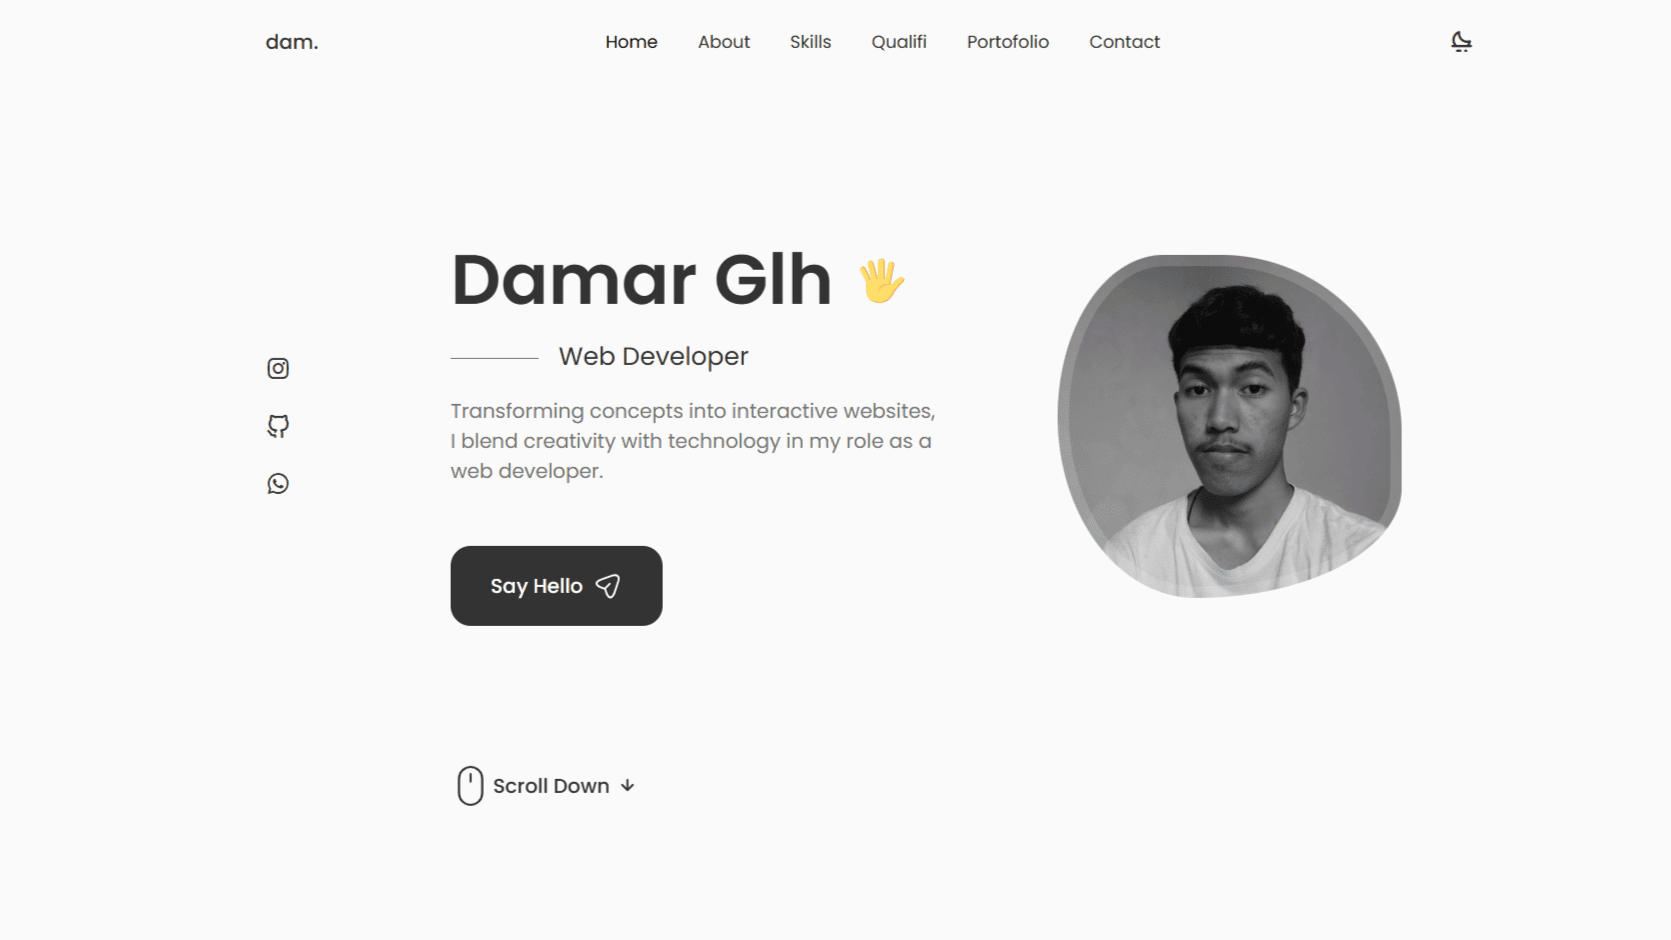
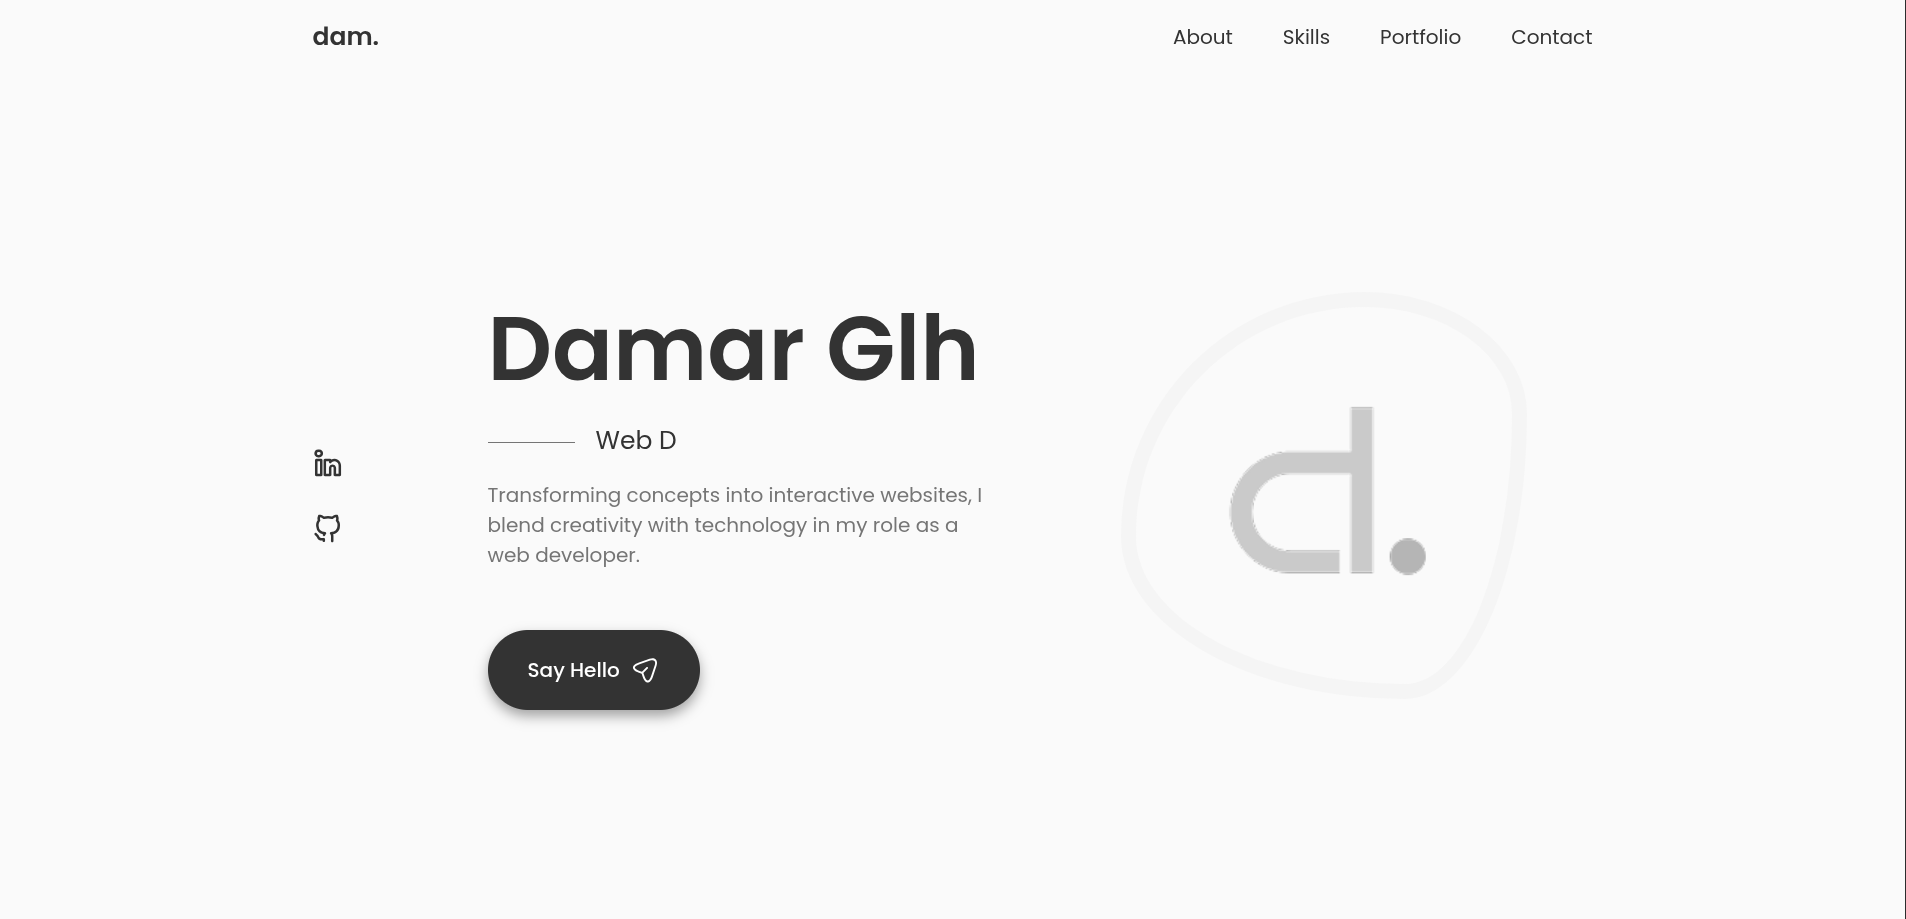
Ref: code structure for improved readability and maintainability; remove redundant code blocks;

diff --git a/src/components/work/Data.jsx b/src/components/work/Data.jsx
@@ -7,6 +7,7 @@ import Work5 from "../../assets/img/me.png";
 import Work6 from "../../assets/img/APP_Park_Ease.png";
 import Work7 from "../../assets/img/FE-Booking.png";
 import Work8 from "../../assets/img/trashcan-iot.png";
+import Work9 from "../../assets/img/Company Profile.jpg";
 import js from '../../assets/svg/js.svg';
 import php from '../../assets/svg/php.svg';
 import csharp from '../../assets/svg/csharp.svg';
@@ -23,6 +24,7 @@ import python from '../../assets/svg/python.svg';
 import flask from '../../assets/svg/flask.svg';
 import typescript from '../../assets/svg/typescript.svg';
 import mysql from '../../assets/svg/mysql.svg';
+import wordpress from '../../assets/svg/wordpress.svg';
 import starsnull from '../../assets/svg/stars-null.svg';
 import starshalf from '../../assets/svg/stars-half.svg';
 import starsfull from '../../assets/svg/stars-full.svg';
@@ -30,6 +32,17 @@ import starsfull from '../../assets/svg/stars-full.svg';
 export const projectsData = [
   {
     id: 0,
+    image: Work9,
+    title: "Company Profile Website",
+    category: "web",
+    link : "https://darinari.co.id",
+    goals: "This company profile website was created to showcase the services and products offered by PT Darinari Sinergi Bersama. It aims to provide potential clients with an overview of the company's capabilities and expertise.",
+    tech : [wordpress, php, mysql],
+    author : ["Damar Galih"],
+    ratings : [starsfull, starsfull, starsfull, starsfull, starsnull],
+  },
+  {
+    id: 1,
     image: Work0,
     title: "Recycling Platform",
     category: "web",
@@ -37,10 +50,10 @@ export const projectsData = [
     goals: "This project is a platform that connects people who want to recycle with recycling centers. The goal is to make it easier for people to recycle and reduce waste in the environment.",
     tech : [python, flask, tailwindcss],
     author : ["Damar Galih"],
-    ratings : [starsfull, starsfull, starsfull, starsnull, starsnull],
+    ratings : [starsfull, starsfull, starsfull, starsfull, starsnull],
   },
   {
-    id: 1,
+    id: 2,
     image: Work1,
     title: "Pokus Extension",
     category: "other",
@@ -48,10 +61,10 @@ export const projectsData = [
     goals: "Pokus is a browser extension that helps users manage their time more effectively. It provides features such as task management, time tracking, and reminders to help users stay focused and productive.",
     tech : [js, typescript, tailwindcss],
     author : ["Muhamad Rizal Arfiyan","Damar Galih", "Gilang Nur Hidayat"],
-    ratings : [starsfull, starsfull, starsfull, starsnull, starsnull],
+    ratings : [starsfull, starsfull, starsfull, starsfull, starsnull],
   },
   {
-    id: 2,
+    id: 3,
     image: Work2,
     title: "Greenlify Website",
     category: "web",
@@ -62,7 +75,7 @@ export const projectsData = [
     ratings : [starsfull, starsfull, starsfull, starsnull, starsnull],
   },
   {
-    id: 3,
+    id: 4,
     image: Work3,
     title: "Landing Page Website",
     category: "web",
@@ -73,7 +86,7 @@ export const projectsData = [
     ratings : [starsfull, starsfull, starsfull, starsnull, starsnull],
   },
   {
-    id: 4,
+    id: 5,
     image: Work4,
     title: "UI & UX Trash Collector",
     category: "design",
@@ -84,7 +97,7 @@ export const projectsData = [
     ratings : [starsfull, starsfull, starsfull, starsfull, starsfull],
   },
   {
-    id: 5,
+    id: 6,
     image: Work5,
     title: "Portofolio Website",
     category: "web",
@@ -96,7 +109,7 @@ export const projectsData = [
   },
 
   {
-    id: 6,
+    id: 7,
     image: Work6,
     title: "Park Ease Application",
     category: "app",
@@ -107,7 +120,7 @@ export const projectsData = [
     ratings : [starsfull, starsfull, starsfull, starsfull, starsfull],
   },
   {
-    id: 7,
+    id: 8,
     image: Work7,
     title: "Booking Website",
     category: "web",
@@ -118,7 +131,7 @@ export const projectsData = [
     ratings : [starsfull, starsfull, starsfull, starsfull, starsfull],
   },
   {
-    id: 8,
+    id: 9,
     image: Work8,
     title: "TrashCan IoT",
     category: "IoT",

diff --git a/src/components/contact/Contact.jsx b/src/components/contact/Contact.jsx
@@ -24,17 +24,29 @@ const Contact = ({isDarkMode}) => {
                     <span className="contact__card-data">dgdarma6@gmail.com</span>
                     <a href="https://mail.google.com/mail/u/2/#inbox?compose=new" className="contact__button">Write me <i className="bx bx-right-arrow-alt contact__button-icon"></i></a>
                   </div>
-                  <div className="contact__card"data-aos="zoom-in" data-aos-delay="2250">
+                  {/* <div className="contact__card"data-aos="zoom-in" data-aos-delay="2250">
                     <i className="bx bxl-whatsapp contact__card-icon"></i>
                     <h3 className="contact__card-title">Whatsapp</h3>
                     <span className="contact__card-data">+62822-2322-3166</span>
                     <a href="https://wa.me/qr/Q3ZAX5TFAH3HI1" className="contact__button">Write me <i className="bx bx-right-arrow-alt contact__button-icon"></i></a>
-                  </div>
-                  <div className="contact__card" data-aos="zoom-in" data-aos-delay="1500">
+                  </div> */}
+                  {/* <div className="contact__card" data-aos="zoom-in" data-aos-delay="1500">
                     <i className="bx bxl-messenger contact__card-icon"></i>
                     <h3 className="contact__card-title">Massage</h3>
                     <span className="contact__card-data">Muhamad damar</span>
                     <a href="https://m.facebook.com/damar.galih.737001?eav=Afa9DNwI3eeZdM4SEa1m0T6kViMZzc6Ev-QMEYKxKS399U--jRaVJbhvp0rNzTTBRe8&paipv=" className="contact__button">Write me <i className="bx bx-right-arrow-alt contact__button-icon"></i></a>
+                  </div> */}
+                  <div className="contact__card" data-aos="zoom-in" data-aos-delay="1500">
+                    <i className="bx bxl-linkedin contact__card-icon"></i>
+                    <h3 className="contact__card-title">Linkedin</h3>
+                    <span className="contact__card-data">Damar Galih</span>
+                    <a href="https://www.linkedin.com/in/damar-galih-7b5a1124b/" className="contact__button">Write me <i className="bx bx-right-arrow-alt contact__button-icon"></i></a>
+                  </div>
+                  <div className="contact__card" data-aos="zoom-in" data-aos-delay="1500">
+                    <i className="bx bxl-github contact__card-icon"></i>
+                    <h3 className="contact__card-title">Github</h3>
+                    <span className="contact__card-data">Damar Galih</span>
+                    <a href="https://github.com/damar-glh" className="contact__button">Write me <i className="bx bx-right-arrow-alt contact__button-icon"></i></a>
                   </div>
                 </div>
             </div>

diff --git a/src/components/footer/Footer.jsx b/src/components/footer/Footer.jsx
@@ -8,28 +8,31 @@ const Footer = ({isDarkMode}) => {
             <h1 className="footer__title">dam.</h1>
             <ul className="footer__list">
                 <li>
-                    <a href="#about" className="footer__link">About</a>
+                    <a href="/about" className="footer__link">About</a>
                 </li>
                 <li>
-                    <a href="#portofolio" className="footer__link">Project</a>
+                    <a href="/portfolio" className="footer__link">Portfolio</a>
                 </li>
                 <li>
-                    <a href="#testimonials" className="footer__link">Testimonial</a>
+                    <a href="/contact" className="footer__link">Contact</a>
                 </li>
             </ul>
             <div className="footer__social">
-            <a href="https://www.youtube.com/channel/UCzvicrZgebz5faHpineRWlg" className="footer__social-link" target="_blank" rel="noreferrer">
+            {/* <a href="https://www.youtube.com/channel/UCzvicrZgebz5faHpineRWlg" className="footer__social-link" target="_blank" rel="noreferrer">
             <i className="bx bxl-youtube"></i>
-            </a>
-            <a href="https://www.instagram.com/invites/contact/?i=1qn7f0ctoxn2r&utm_content=4rioy6h" className="footer__social-link" target="_blank" rel="noreferrer">
+            </a> */}
+            {/* <a href="https://www.instagram.com/invites/contact/?i=1qn7f0ctoxn2r&utm_content=4rioy6h" className="footer__social-link" target="_blank" rel="noreferrer">
             <i className="bx bxl-instagram"></i>
-            </a>
+            </a> */}
             <a href="https://github.com/damar-glh" className="footer__social-link" target="_blank" rel="noreferrer">
             <i className="bx bxl-github"></i>
             </a>
-            <a href="https://wa.me/qr/Q3ZAX5TFAH3HI1" className="footer__social-link" target="_blank" rel="noreferrer">
+            {/* <a href="https://wa.me/qr/Q3ZAX5TFAH3HI1" className="footer__social-link" target="_blank" rel="noreferrer">
             <i className="bx bxl-whatsapp"></i>
-            </a>
+            </a> */}
+            <a href="https://www.linkedin.com/in/damar-galih-7b5a1124b/" className="footer__social-link" target="_blank" rel="noreferrer">
+            <i className="bx bxl-linkedin"></i>
+        </a>
             </div>
             <span className="footer__copy">&#169; Created by damar.glh__</span>
         </div>

diff --git a/src/components/about/About.jsx b/src/components/about/About.jsx
@@ -1,11 +1,11 @@
 import React, {useState, useEffect} from 'react'
 import "./about.css";
-import AboutImg from "../../assets/img/damar-galih.jpg";
+import AboutImg from "../../assets/img/logo home.png";
 import Info from './Info';
 
 const About = ({isDarkMode}) => {
   const [animatedText, setAnimatedText] = useState('');
-  const text = "I am a human who is interested in the world of technology, especially in the field of development and creation, with professional experience in designing and developing websites using various front-end and back-end technologies such as HTML, CSS, JavaScript, as well as frameworks such as Bootstrap, Tailwind CSS , and React, while at the same time expanding knowledge in the field of back-end development and creating interesting work by combining technological expertise and a philosophical understanding of identity and the meaning of life.";
+  const text = "Web Developer with 1-2 years of professional experience in web development. Successfully completed 10+ projects, ranging from landing pages to dynamic web applications. Proficient in modern technologies such as HTML, CSS, JavaScript, and frameworks like React, Bootstrap, and Tailwind CSS. Currently actively developing programming skills and ready to collaborate on development teams to create digital solutions.";
 
   useEffect(() => {
     let interval;

diff --git a/src/components/skills/Framework.jsx b/src/components/skills/Framework.jsx
@@ -3,14 +3,20 @@ import git from '../../assets/svg/git.svg';
 import tailwindcss from '../../assets/svg/tailwindcss.svg';
 import reactjs from '../../assets/svg/reactjs.svg';
 import linux from '../../assets/svg/linux.svg';
+import elementor from '../../assets/svg/elementor.svg';
+import rankmath from '../../assets/svg/rankmath.svg';
+import yoseo from '../../assets/svg/yoseo.svg';
 import SkillsContainer from "./SkillsContainer";
 
 const frameworkSkills = [
+    {name: 'Elementor', icon: elementor},
+    {name: 'Rank Math', icon: rankmath},
+    {name: 'Yoast SEO', icon: yoseo},
     {name: 'Bootstrap', icon: bootstrap},
     {name: 'TailwindCss', icon: tailwindcss},
     {name: 'React', icon: reactjs},
     {name: 'Git', icon: git},
-    {name: 'Linux', icon: linux}
+    {name: 'Linux', icon: linux},
 ];
 
 const Framework = () => {

diff --git a/src/components/home/Social.jsx b/src/components/home/Social.jsx
@@ -6,9 +6,9 @@ const Social = () => {
         <a href="https://www.linkedin.com/in/damar-galih-7b5a1124b/" className="home__social-icon" target="_blank" rel="noreferrer">
             <i className="uil uil-linkedin-alt"></i>
         </a>
-        <a href="https://www.instagram.com/invites/contact/?i=1qn7f0ctoxn2r&utm_content=4rioy6h" className="home__social-icon" target="_blank" rel="noreferrer">
+        {/* <a href="https://www.instagram.com/invites/contact/?i=1qn7f0ctoxn2r&utm_content=4rioy6h" className="home__social-icon" target="_blank" rel="noreferrer">
             <i className="uil uil-instagram"></i>
-        </a>
+        </a> */}
         <a href="https://github.com/damar-glh" className="home__social-icon" target="_blank" rel="noreferrer">
             <i className="uil uil-github-alt"></i>
         </a>

diff --git a/src/components/skills/Frontend.jsx b/src/components/skills/Frontend.jsx
@@ -4,6 +4,8 @@ import js from '../../assets/svg/js.svg';
 import scss from '../../assets/svg/scss.svg';
 import mysql from '../../assets/svg/mysql.svg';
 import postman from '../../assets/svg/postman.svg';
+import wordpress from '../../assets/svg/wordpress.svg';
+import woocommerce from '../../assets/svg/woocommerce.svg';
 import SkillsContainer from "./SkillsContainer";
 
 const frontendSkills = [
@@ -12,7 +14,9 @@ const frontendSkills = [
     {name: 'SCSS', icon: scss},
     {name: 'JavaScript', icon: js},
     {name: 'MySQL', icon: mysql},
-    {name: 'Postman', icon: postman}
+    {name: 'Postman', icon: postman},
+    {name: 'WordPress', icon: wordpress},
+    {name: 'WooCommerce', icon: woocommerce}
 ];
 
 const Frontend = () => {

diff --git a/src/components/skills/Lecskills.jsx b/src/components/skills/Lecskills.jsx
@@ -3,6 +3,8 @@ import cpp from '../../assets/svg/cpp.svg';
 import csharp from '../../assets/svg/csharp.svg';
 import php from '../../assets/svg/php.svg';
 import xampp from '../../assets/svg/xampp.svg';
+import figma from '../../assets/svg/figma.svg';
+import litespeed from '../../assets/svg/litespeed-seeklogo.svg';
 import SkillsContainer from "./SkillsContainer";
 
 const lecSkills = [
@@ -10,8 +12,10 @@ const lecSkills = [
     {name: 'C++', icon: cpp},
     {name: 'C#', icon: csharp},
     {name: 'PHP', icon: php},
-    {name: 'XAMPP', icon: xampp}
-]
+    {name: 'XAMPP', icon: xampp},
+    {name: 'Figma', icon: figma},
+    {name: 'LiteSpeed', icon: litespeed},
+];
 
 const LecSkills = () => {
     return (

diff --git a/src/components/home/Data.jsx b/src/components/home/Data.jsx
@@ -75,7 +75,7 @@ function Data() {
         </h1>
         <h3 className="home__subtitle">{animatedText}</h3>
         <p className="home__description">Transforming concepts into interactive websites, I blend creativity with technology in my role as a web developer. </p>
-        <a href="/me/contact" className="button button--flex">
+        <a href="/contact" className="button button--flex">
             Say Hello
             <svg
                   className="button__icon"

diff --git a/src/components/skills/Skills.jsx b/src/components/skills/Skills.jsx
@@ -14,7 +14,7 @@ const Skills = ({isDarkMode}) => {
             }}
         >
             <h2 className="section__title">Skills</h2>
-            <span className="section__subtitle">My stack level</span>
+            <span className="section__subtitle">My stack & tools</span>
             <div className="skills__marquee-wrapper">
                 <div className="skills__marquee container">
                     <div className="marquee-row row-1"><Frontend/></div>

diff --git a/src/components/about/about.css b/src/components/about/about.css
@@ -8,15 +8,15 @@
     width: 300px;
     border-radius: 2rem;
     justify-self: center;
-    box-shadow: rgba(0, 0, 0, 0.35) 0px 5px 10px;
+    /* box-shadow: rgba(0, 0, 0, 0.35) 0px 5px 10px; */
     cursor: pointer;
     filter: grayscale(100%);
 }
 
-.about__img:hover {
+/* .about__img:hover {
     filter: grayscale(0%);
     transition: filter 0.3s ease-in-out;
-}
+} */
 
 .about__info {
     grid-template-columns: repeat(3, 140px);

diff --git a/public/index.html b/public/index.html
@@ -22,7 +22,7 @@
   <meta charset="UTF-8">
   <meta name="viewport" content="width=device-width, initial-scale=1.0">
   <!-- add icon link -->
-  <link rel="icon" href="favicon.ico" />
+  <link rel="icon" href="logo.ico" />
 
   <!--================== BOXICONS ==================-->
   <link href='https://unpkg.com/boxicons@2.1.4/css/boxicons.min.css' rel='stylesheet'>
